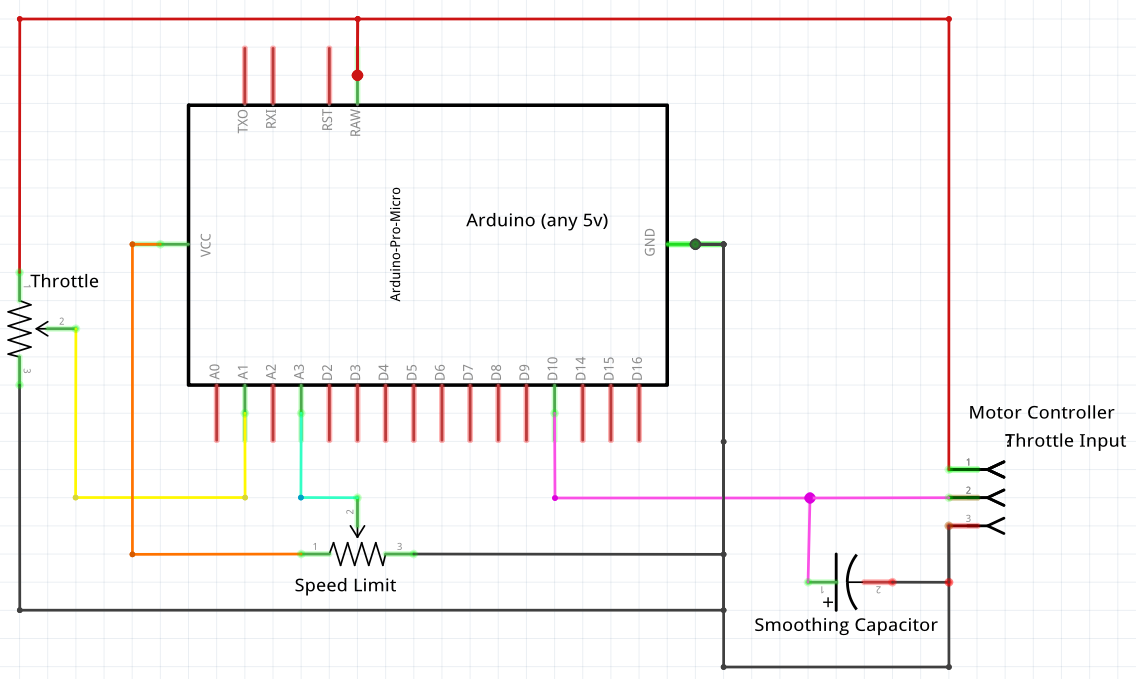
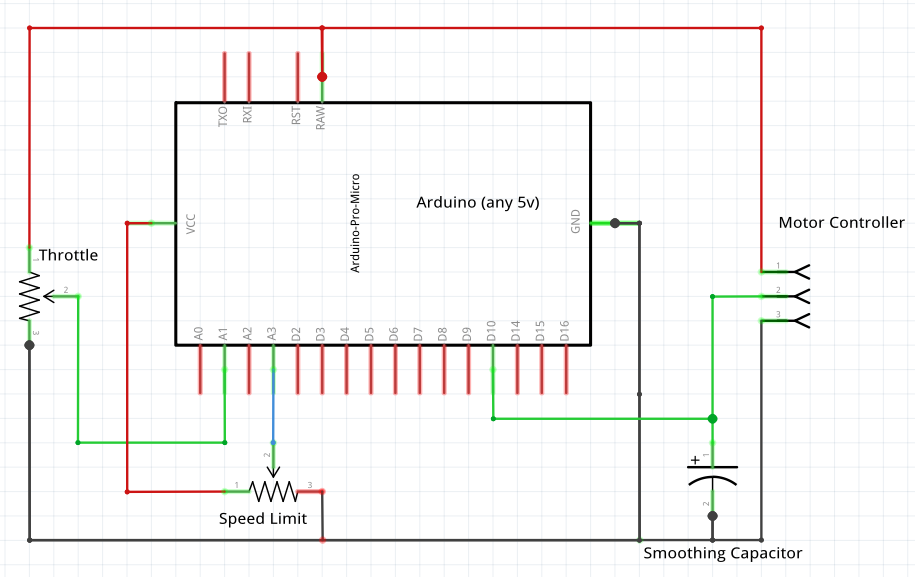
Cleanup, readme, schematic

Changed region(s): [[0.0, 0.0, 1.0, 0.9983]]

diff --git a/README.md b/README.md
@@ -15,10 +15,11 @@ The arduino is inserted between a 3-wire throttle and the controller.
 ![arduino-throttle-wiring.png](arduino-throttle-wiring.png)
 
 Wiring is very simple.  Smoothing capacitor can be any value that eliminates
-jumping of motor speed at steady throttle.  I believe that I used a 100uF for my setup.
+jumping of motor speed at steady throttle.  I believe that I used a 100uF for my setup.  
+A high value may cause the throttle to stay high longer than desired. 
 
 ![arduino-throttle.png](arduino-throttle.png)
-Note that I added a power supply capacitor as well, but I don't think it was necessary.
+Note that I added a power supply capacitor as well, but it was probably unnecessary.
 
 ### Tuning
 
@@ -28,6 +29,7 @@ If you don't want speed limiting, comment out `#LIMIT_ENABLE`
 
 **Note** that when plugged into USB, Arduino is running at 5V, but when powered by the motor controller,
 it is most likely running on 4.0V-4.5V.  This changes the numbers and behavior a little when you unplug USB.
+My Arduino clone (Pro Micro 5 volt) works fine at this voltage, your mileage may vary.
 
 ### Story
 
